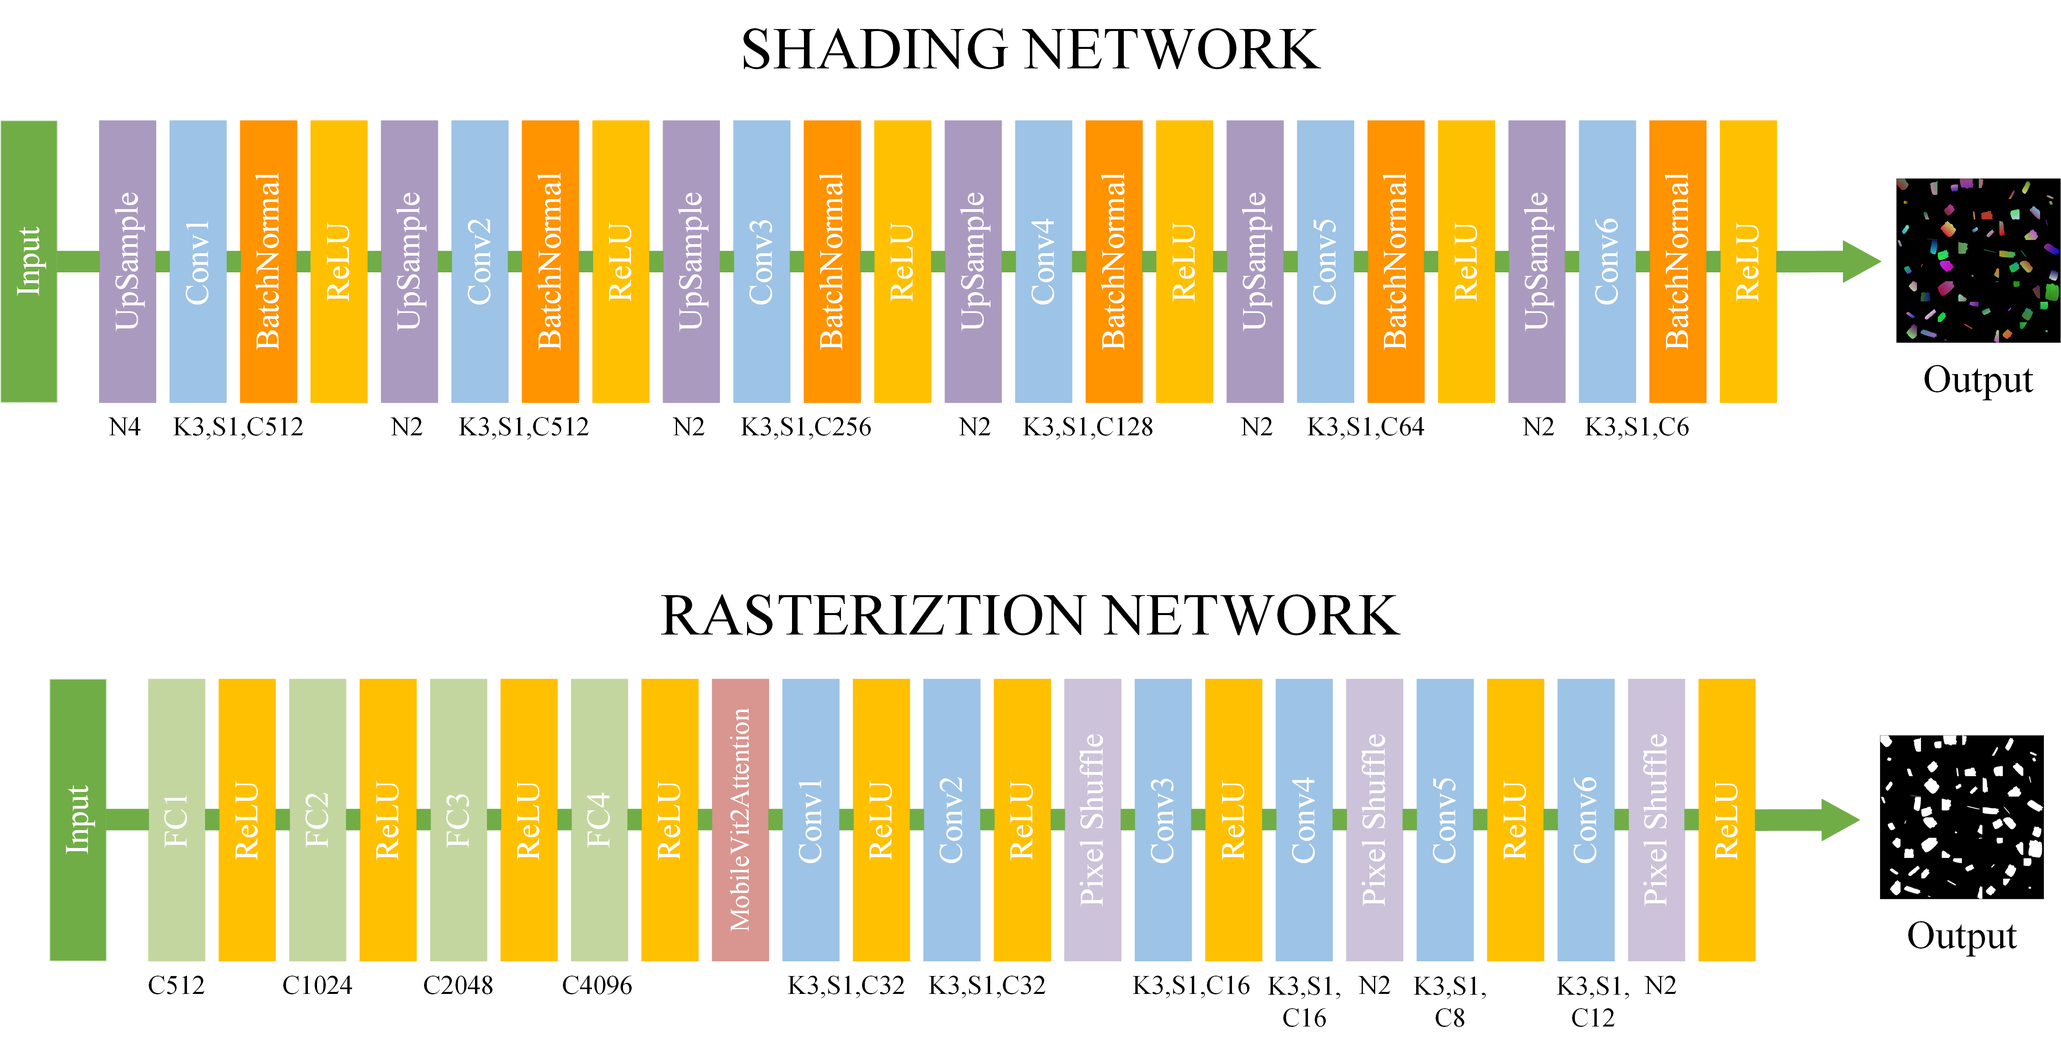
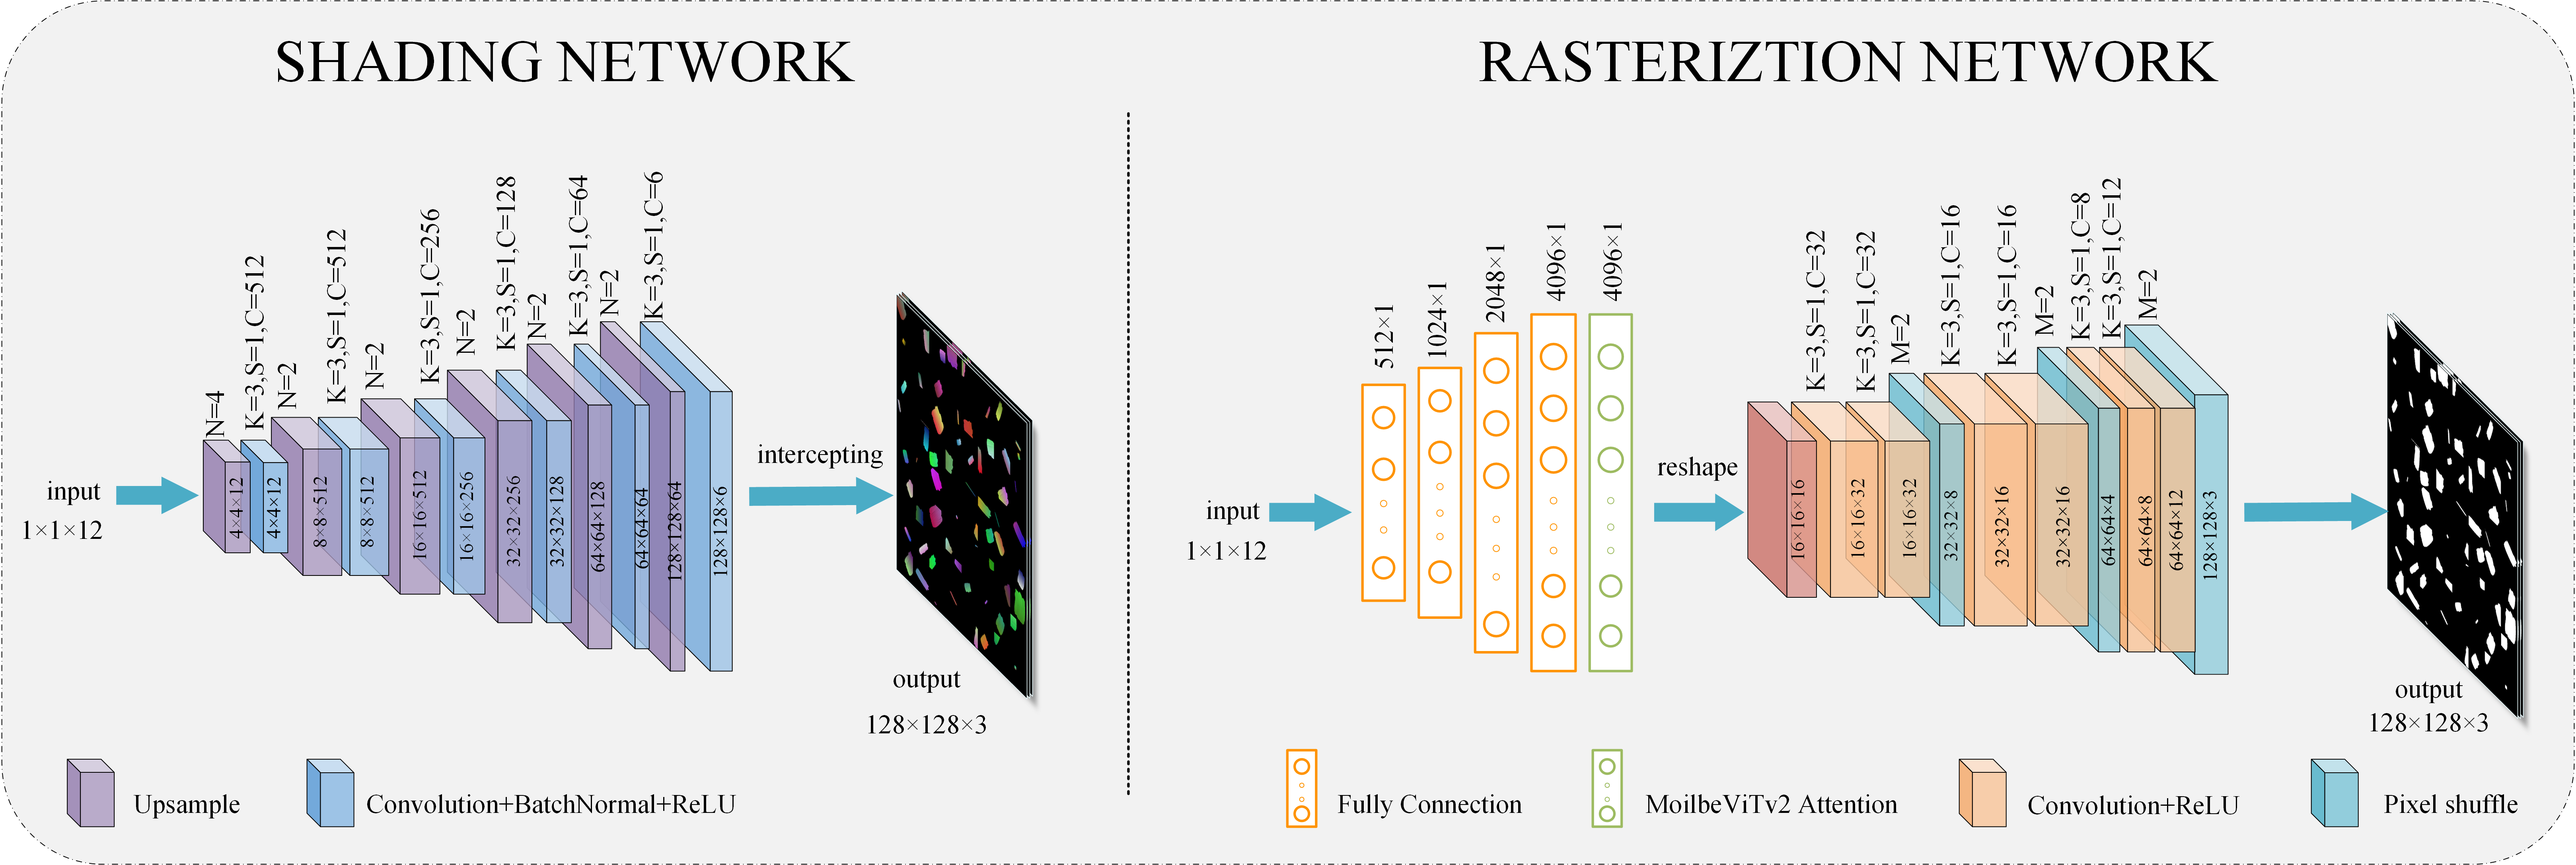
add detail

diff --git a/DrawNet/index.html b/DrawNet/index.html
@@ -7,7 +7,7 @@
   <meta name="description"
     content="Probably the most complete UI kit out there. Multiple functionalities and controls added,  extended color palette and beautiful typography, designed as its own extended version of Bootstrap at  the highest level of quality.                             ">
   <meta name="author" content="Webpixels">
-  <title>DrawNet: A neural painting network</title>
+  <title>DrawNet: A neural painting network with attention module</title>
   <!-- Fonts -->
   <link href="https://fonts.googleapis.com/css?family=Nunito:400,600,700,800|Roboto:400,500,700" rel="stylesheet">
   <!-- Theme CSS -->
@@ -29,29 +29,30 @@
           <div class="dropdown-divider d-lg-none my-4"></div>
           <h6 class="dropdown-header font-weight-600 d-lg-none px-0">Social Media</h6>
           <li class="nav-item">
-            <a class="nav-link nav-link-icon" href="#" target="_blank"><i
-                class="fab fa-instagram"></i><span class="ml-2 d-lg-none">Instagram</span></a>
+            <a class="nav-link nav-link-icon" href="#" target="_blank"><i class="fab fa-instagram"></i><span
+                class="ml-2 d-lg-none">Instagram</span></a>
           </li>
           <li class="nav-item">
-            <a class="nav-link nav-link-icon" href="#" target="_blank"><i
-                class="fab fa-facebook"></i><span class="ml-2 d-lg-none">Facebook</span></a>
+            <a class="nav-link nav-link-icon" href="#" target="_blank"><i class="fab fa-facebook"></i><span
+                class="ml-2 d-lg-none">Facebook</span></a>
           </li>
           <li class="nav-item">
-            <a class="nav-link nav-link-icon" href="#" target="_blank"><i
-                class="fab fa-dribbble"></i><span class="ml-2 d-lg-none">Dribbble</span></a>
+            <a class="nav-link nav-link-icon" href="#" target="_blank"><i class="fab fa-dribbble"></i><span
+                class="ml-2 d-lg-none">Dribbble</span></a>
           </li>
           <li class="nav-item">
-            <a class="nav-link nav-link-icon" href="#" target="_blank"><i
-                class="fab fa-github"></i><span class="ml-2 d-lg-none">Github</span></a>
+            <a class="nav-link nav-link-icon" href="#" target="_blank"><i class="fab fa-github"></i><span
+                class="ml-2 d-lg-none">Github</span></a>
           </li>
         </ul>
       </div>
     </div>
   </nav>
   <main class="main">
-    <section class="spotlight parallax bg-cover bg-size--cover" data-spotlight="fullscreen" style="background-image: url('assets/images/top.png')">
+    <section class="spotlight parallax bg-cover bg-size--cover" data-spotlight="fullscreen"
+      style="background-image: url('assets/images/top.png')">
       <!-- style="background-image: url('assets/images/backgrounds/img-1.jpg')" -->
-      <span class="mask bg-primary alpha-7"></span>
+      <span class="mask alpha-7" style="background-color:#b2b3a4;"></span>
       <div class="spotlight-holder py-lg pt-lg-xl">
         <div class="container d-flex align-items-center no-padding">
           <div class="col">
@@ -61,11 +62,11 @@
                   <!-- <img src="assets/images/brand/icon.png" style="width: 200px;" class="img-fluid animated" data-animation-in="jackInTheBox" data-animation-delay="1000"> -->
                   <h2 class="heading display-4 font-weight-400 text-white mt-5 animated" data-animation-in="fadeInUp"
                     data-animation-delay="2000">
-                    <span class="font-weight-700">DrawNet: A neural painting network</span>
+                    <span class="font-weight-700">DrawNet: A neural painting network with attention module</span>
                   </h2>
                   <p class="lead text-white mt-3 lh-180 c-white animated" data-animation-in="fadeInUp"
                     data-animation-delay="2500">
-                    1st Author Name <span><sup>a</sup></span>, 2nd Author Name, 3rd Author Name<strong
+                    Fachao Zhang <span><sup>a</sup></span>, Xiaoman Liang<sup>a,b</sup>, 3rd Author Name<strong
                       class="text-white"></strong>
                   </p>
 
@@ -105,13 +106,13 @@
               </svg> <span style="font-size: 16px;"><a href="#">[Code]</a></span>
             </div>
             <div class="row align-items-center mb-4">
-              <div class="col-4">
+              <div class="col-6">
                 <img style="width: 100%;" src="assets/images/pandans_animated.mp4_20221227_154420.gif" />
               </div>
-              <div class="col-4">
+              <div class="col-6">
                 <img style="width: 100%;" src="assets/images/sunflowers_animated.mp4_20221227_154715.gif" />
               </div>
-              <div class="col-4">
+              <div class="col-6">
                 <img style="width: 100%;" src="assets/images/square_animated.mp4_20221227_154817.gif" />
               </div>
             </div>
@@ -128,12 +129,18 @@
             </div>
             <div class="row typeface-palette cols-xs-space cols-sm-space cols-md-space">
               <div class="col-sm-12">
-                <p style="text-align:justify;text-indent:2em">In this paper, we propose a new image to painting
-                  translation method that can generate paintings on a
-                  stroke by stroke basis. Unlike previous pixel-to-pixel or sequential optimization methods, our method
-                  generates a set of physically meaningful stroke parameters that can be further rendered using a
-                  renderer. Experimental results show that our renderer improves the PSNR by 3.7% over previous
-                  renderers. Our code and more results are available at <span><a>https://zhangfc7.github.io/</a></span>
+                <p style="text-align:justify;text-indent:2em">In this paper, we propose a new image-to-painting
+                  translation method that can generate paintings on a stroke by stroke basis. Unlike
+                  previous pixel-to-pixel or sequential optimization methods, our method generates a set of physically
+                  meaningful stroke parameters that can be
+                  further rendered using a renderer. We add an attention mechanism network to the proposed renderer to
+                  improve the quality of the painting images,
+                  and use Smooth Ll loss in the training process of the renderer to make the model converge faster.
+                  Experimental results show that our renderer
+                  outperforms other renderers and improves the PSNR evaluation metric by 3.7% over the previous
+                  renderer. Our code and more results are
+                  available at <span><a
+                      href="https://zhangfc7.github.io/DrawNet/">https://zhangfc7.github.io/DrawNet/</a></span>
                 </p>
               </div>
             </div>
@@ -146,20 +153,38 @@
                 <a href="docs/colors.html" class="btn btn-sm btn-primary">Open in Docs</a>
               </div> -->
             </div>
-            <p style="text-indent: 2em;">Our method is shown in the figure below.</p>
 
+            <p style="text-indent: 2em;">The flowchart of our DrawNet is shown in Fig. 1. </p>
+            <!-- <p>  When \(a \ne 0\), there are two solutions to \(ax^2 + bx + c = 0\) and they are
+              \[x = {-b \pm \sqrt{b^2-4ac} \over 2a}.\]
+            </p> -->
+            
             <img src="assets/images/flow.png" style="width: 100%;" />
-
+            <p style="text-align: center; margin-top: 8px;font-weight: 700;">Figure 1. Flow Chart</p>
 
             <div class="row align-items-center mb-4 mt-lg">
               <div class="col-8">
                 <h2 class="heading h3 mb-0">Network</h2>
               </div>
             </div>
-            <p style="text-indent: 2em;">Our network structure is shown in the figure below.</p>
+            <p style="text-indent: 2em;text-align: justify;">In this paper we propose a novel network named DrawNet, which consists of two convolutional neural networks: a Shading network, which 
+              accepts color and shape parameters for generating foreground strokes with color, and a Rasteriztion network, which ignores stroke color and 
+              generates clear stroke. The structure of DrawNet is shown in Figure 2.
+              Shading network mainly consists of up-sampling, convolution, BatchNormal, ReLU activation function and other modules. The main 
+              methods of upsampling are: transposed convolution, nearest neighbor interpolation, bilinear interpolation, etc. Although transposed convolution 
+              has shown good results in many fields, the "tessellation effect" occurs if the convolution kernel size is not divisible by the step size [15]. In the 
+              upsampling module of the Shading network we use bilinear interpolation, which does not need to learn any parameters, which speeds up the 
+              computation of the model.The Rasteriztion network is mainly composed of fully connected, ReLU, convolution, and Pixel shuffle [16] modules, 
+              and we add a fully connected layer followed by A MoblieVit2Attention module [17] was added after the fully connected layer and better output 
+              was observed.
+              </p>
 
             <img src="assets/images/network.png" style="width: 100%;" />
-
+            <p style="text-align: center; margin-top: 8px;font-weight: 700;padding-left: 50px;padding-right: 50px;">
+              Figure 2. The network structure of DrawNet, K is the kernel size, C is the number of feature maps, S is
+              the step size in each convolutional layer,
+              and M and N are the scaling factors.
+            </p>
 
             <div class="row align-items-center mb-4 mt-lg">
               <div class="col-8">
@@ -180,7 +205,7 @@
               process.</p>
 
             <img src="assets/images/val_psnr2.png" style="width: 100%;" />
-
+            <p style="text-align: center; margin-top: 8px;font-weight: 700;">Figure 3. Variation curves of PSNR and SSIM during the training process</p>
 
 
             <div class="row align-items-center mb-4 mt-lg">
@@ -191,6 +216,7 @@
             <p style="text-indent: 2em;"></p>
 
             <img src="assets/images/result.png" style="width: 100%;" />
+            <p style="text-align: center; margin-top: 8px;font-weight: 700;">Figure 4.  Experimental results, (a): input (b): oilpaint (c): watercolor (d): markerpen (e): crayon</p>
 
 
 
@@ -201,12 +227,28 @@
             </div>
             <p style="text-indent: 2em;"></p>
             <img src="assets/images/style_transfer_result.png" style="width: 100%;" />
+            <p style="text-align: center; margin-top: 8px;font-weight: 700;">Figure 5.  Style transfer results</p>
+
+            <div class="row align-items-center mb-4 mt-lg">
+              <div class="col-8">
+                <h2 class="heading h3 mb-0">References</h2>
+              </div>
+            </div>
+
+            <ul>
+              <li>[1] Zou Z, Shi T, Qiu S, et al. Stylized neural painting[C].Proceedings of the IEEE/CVF Conference on
+                Computer Vision and Pattern Recognition. 2021: 15689-15698.</li>
+              <li>[2] Liu S, Lin T, He D, et al. Paint transformer: Feed forward neural painting with stroke
+                prediction[C].Proceedings of the IEEE/CVF international conference on computer vision. 2021: 6598-6607.
+              </li>
+            </ul>
+
           </div>
         </div>
       </div>
     </section>
   </main>
-  <!-- <footer class="pt-5 pb-3 footer  footer-dark bg-tertiary">
+  <footer class="pt-5 pb-3 footer  footer-dark bg-tertiary">
     <div class="container">
       <div class="row">
         <div class="col-12 col-md-4">
@@ -281,11 +323,17 @@
         </ul>
       </div>
     </div>
-  </footer> -->
+  </footer>
   <!-- Core -->
   <script src="./assets/vendor/jquery/jquery.min.js"></script>
   <script src="./assets/vendor/popper/popper.min.js"></script>
   <script src="./assets/js/bootstrap/bootstrap.min.js"></script>
+  <!-- math -->
+  <script src="https://polyfill.io/v3/polyfill.min.js?features=es6"></script>
+  <script id="MathJax-script" async src="https://cdn.jsdelivr.net/npm/mathjax@3/es5/tex-mml-chtml.js">
+  </script>
+
+
   <!-- FontAwesome 5 -->
   <script src="./assets/vendor/fontawesome/js/fontawesome-all.min.js" defer></script>
   <!-- Page plugins -->
